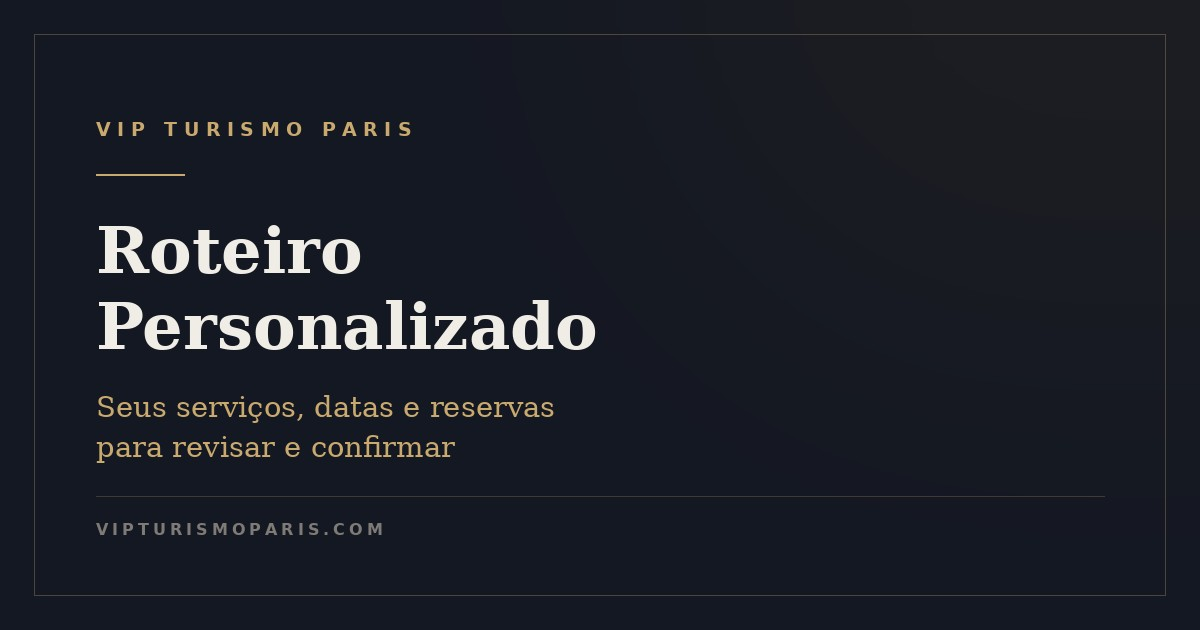
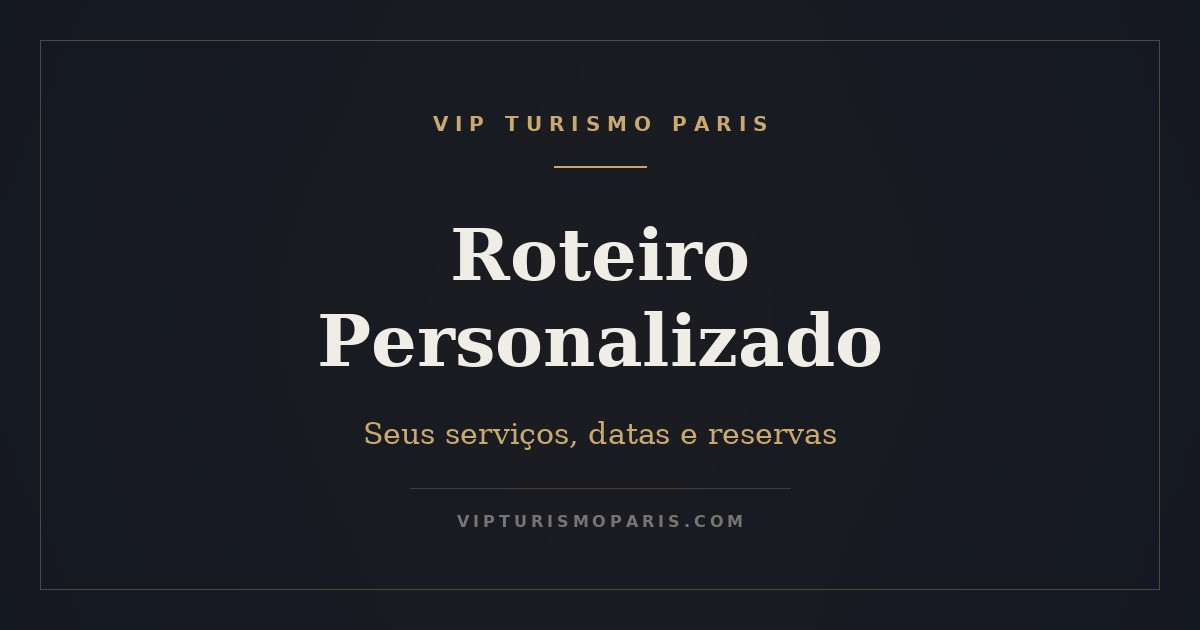
fix: imagem da pré-visualização centrada e verificação mais rigorosa
O WhatsApp recorta a imagem em quadrado nalguns formatos de mensagem.
A composição estava toda alinhada à esquerda, então o recorte mostrava
sobretudo fundo vazio. Passa a ser centrada, legível inteira ou recortada.

teste.php: valida que o preview.jpg é um JPEG legível, com as dimensões
mínimas que o WhatsApp exige, e mostra-o pelo endereço público — o que
apanha ficheiros danificados por envio FTP em modo texto.

diff --git a/site/teste.php b/site/teste.php
@@ -40,14 +40,37 @@ foreach ([
   ];
 }
 
-$img = file_exists("$dir/img/preview.jpg");
-$itens[] = [
-  'nome' => 'img/preview.jpg',
-  'ok'   => $img,
-  'nota' => $img
-    ? 'Imagem da pré-visualização encontrada'
-    : 'FALTA — crie a pasta img/ e coloque lá o preview.jpg',
-];
+/* imagem da pré-visualização: existe, é um JPEG válido e tem o tamanho certo? */
+$fimg = "$dir/img/preview.jpg";
+if (!file_exists($fimg)) {
+  $itens[] = [
+    'nome' => 'img/preview.jpg',
+    'ok'   => false,
+    'nota' => 'FALTA — crie a pasta img/ e coloque lá o preview.jpg',
+  ];
+} else {
+  $bytes = filesize($fimg);
+  $info  = @getimagesize($fimg);
+  if (!$info || ($info[2] ?? 0) !== IMAGETYPE_JPEG) {
+    $itens[] = [
+      'nome' => 'img/preview.jpg',
+      'ok'   => false,
+      'nota' => 'FICHEIRO DANIFICADO — reenvie por FTP em modo binário, '
+              . 'ou pelo Gestor de Ficheiros do cPanel',
+    ];
+  } else {
+    [$lg, $al] = $info;
+    $bom = $lg >= 600 && $al >= 315 && $bytes < 5000000;
+    $itens[] = [
+      'nome' => 'img/preview.jpg',
+      'ok'   => $bom,
+      'nota' => $bom
+        ? "JPEG válido · {$lg}×{$al} px · " . round($bytes / 1024) . ' KB'
+        : "JPEG {$lg}×{$al} px — o WhatsApp precisa de pelo menos 600×315 px "
+        . 'e menos de 5 MB',
+    ];
+  }
+}
 
 /* pasta de dados */
 $dados = "$dir/dados";
@@ -196,6 +219,14 @@ a{color:var(--gilt)}
       <code><?= e($pasta) ?></code>. No <code>gerador.html</code>, o
       <code>BASE_URL</code> tem de ser <code><?= e($base) ?></code>.</p>
     <?php endif; ?>
+  </div>
+
+  <h2>A imagem como o WhatsApp a vai buscar</h2>
+  <div class="caixa">
+    <p>Se o quadro abaixo aparecer vazio ou partido, o WhatsApp também não a consegue ler.</p>
+    <img src="<?= e($base) ?>/img/preview.jpg" alt="Pré-visualização"
+         style="width:100%;border-radius:6px;border:1px solid var(--border);display:block;margin-top:10px">
+    <p style="margin-top:10px">Endereço:<br><code><?= e($base) ?>/img/preview.jpg</code></p>
   </div>
 
   <?php if ($ultimos): ?>
